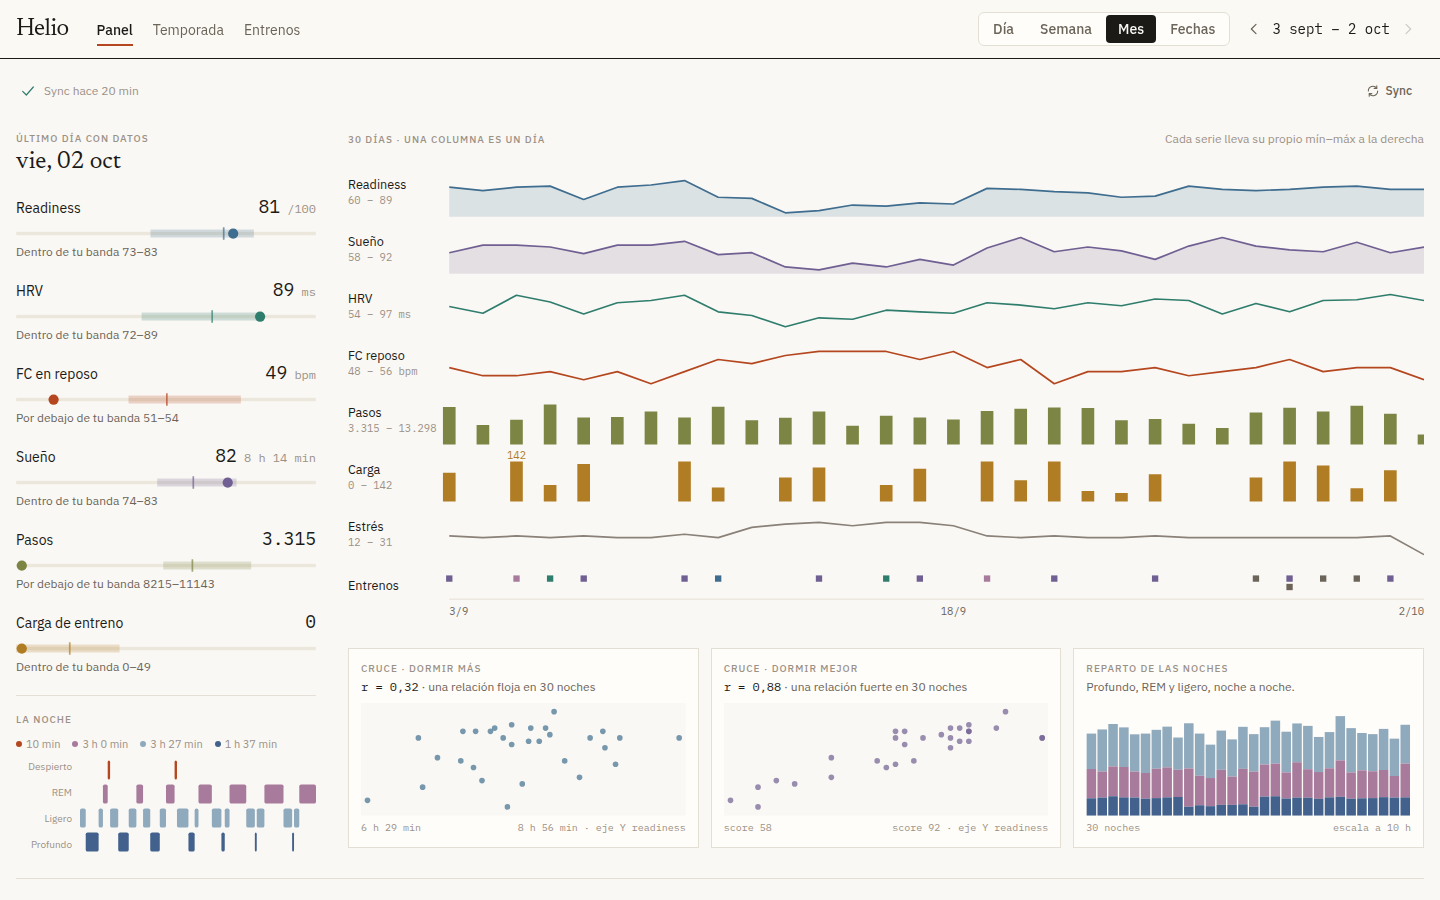
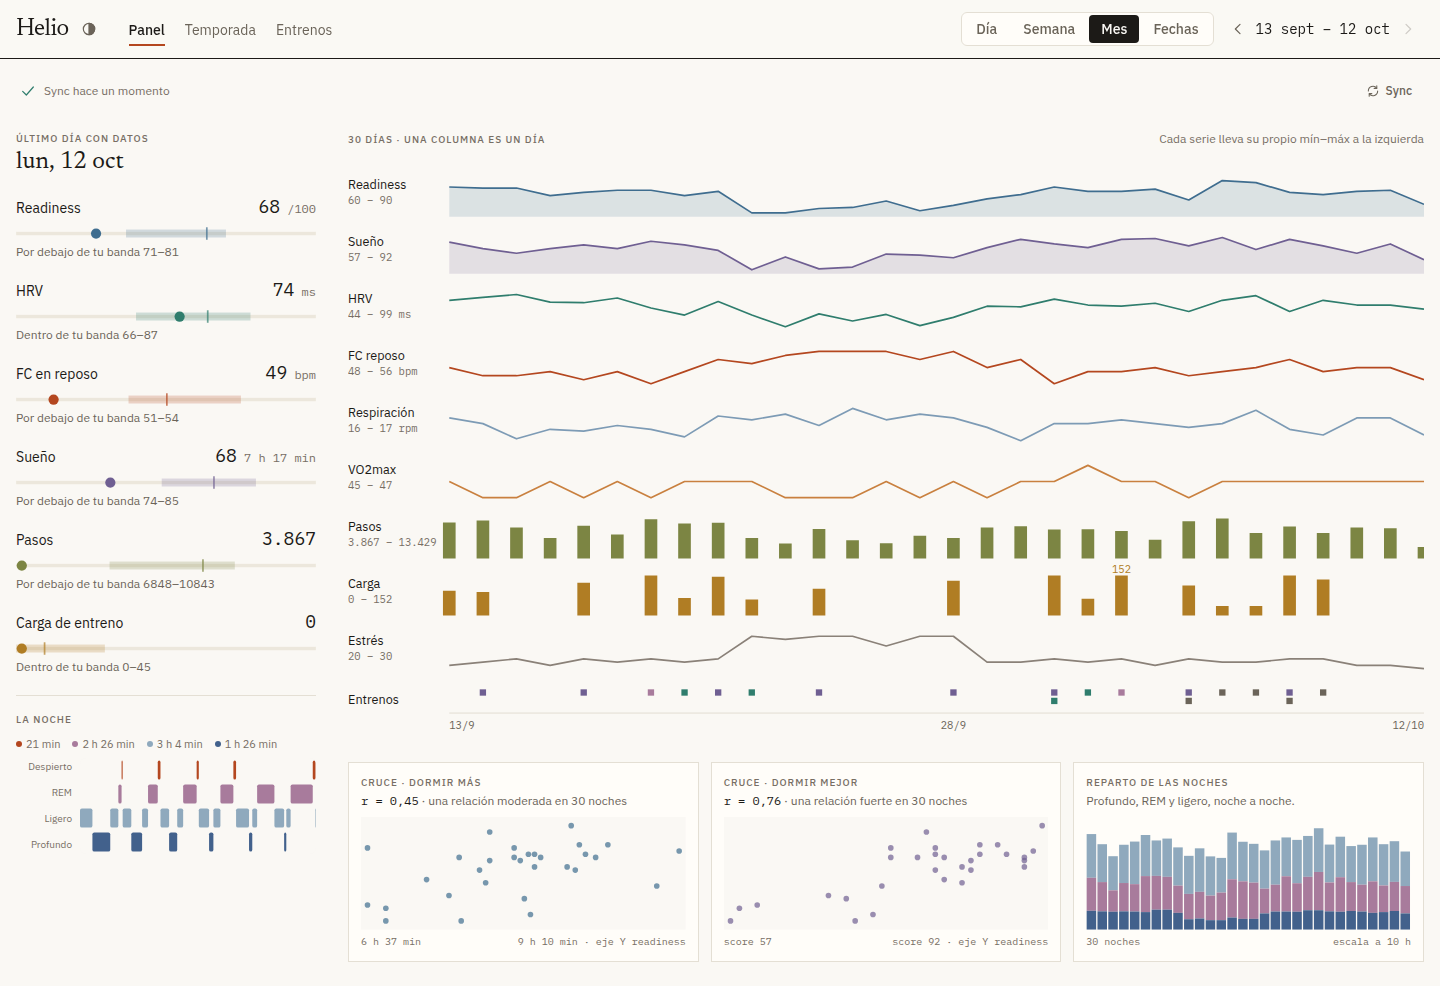
chore(release): v0.2.0

diff --git a/CHANGELOG.md b/CHANGELOG.md
@@ -1,0 +1,72 @@
+# Changelog
+
+Notable changes per release. The format follows
+[Keep a Changelog](https://keepachangelog.com/en/1.1.0/) and versions follow
+[Semantic Versioning](https://semver.org/).
+
+## [0.2.0] - 2026-10-12
+
+### Added
+
+- **Dark mode.** Follows the system by default; the button next to the title
+  cycles Auto → Light → Dark, remembered per browser and applied before the first
+  paint. Every colour is a `light-dark()` pair, and the dark palette was checked
+  for contrast and for colour-blind separation of series that share a chart.
+- **Naps** in the Panel: one line per nap under the night's hypnogram, and each
+  nap with its own hypnogram in the sleep detail. A day with only a nap no longer
+  shows up empty. Naps stay out of the sleep score and its trend.
+- **Respiratory rate and VO2max** lanes on the Panel's shared time axis.
+- The demo generates naps and VO2max, so all of the above is visible without an
+  account.
+
+### Changed
+
+- A Panel lane with no data at all in the selected range is not drawn (VO2max
+  comes back empty on many accounts).
+- Muted text in the light theme is darker: 2.9:1 → 4.7:1 contrast on the page
+  background (WCAG AA); 4.3:1 on raised panels.
+
+### Fixed
+
+- After a sync or any edit (reviewing, editing a workout, labels, annotations),
+  everything on screen reloads, not only the component that made the change.
+- A workout restored from "ignored" shows up again in the review queue badge.
+- The API docs (`/docs`, `/openapi.json`) show the project version instead of
+  FastAPI's default `0.1.0`.
+
+## [0.1.1] - 2026-10-11
+
+### Added
+
+- `GET /api/overview` returns `tz`, the timezone days are grouped by.
+
+### Fixed
+
+- **Sync:** a day fetched while it was still in progress (or before the strap
+  uploaded anything) is fetched again instead of being treated as final. Days
+  older than the sync window that were never fetched, or failed, are recovered
+  on the next default run.
+- **Sync:** `python -m ingest.run` exits with code 1 when any source failed, so
+  cron or a systemd timer can notice.
+- **Review queue:** sessions go to review by the payload's own
+  `auto_recognition` flag instead of a hard-coded sport code, and mapping a code
+  in `[sport_types]` later moves its workouts out of the queue.
+- **Auth:** when the token expires, concurrent 401s trigger a single re-login
+  instead of false "invalid credentials" errors, and a failed re-login is not
+  retried by the other workers.
+- **Web:** the app uses the backend's timezone instead of a fixed
+  `Europe/Madrid`; day arithmetic is correct west of UTC; a manually added
+  workout is read in the app's timezone.
+- **Web:** the workout editor no longer saves the fields of the previously
+  opened workout.
+- **Docs:** the login commands no longer clash with the read-only `UID` shell
+  variable, and the clone URL is the real one.
+
+## [0.1.0] - 2026-10-02
+
+First public release: ingestion from the Zepp cloud API into SQLite, HTTP API,
+web app (installable PWA) and an offline demo.
+
+[0.2.0]: https://github.com/J-solan/zepp-dashboard/compare/v0.1.1...v0.2.0
+[0.1.1]: https://github.com/J-solan/zepp-dashboard/compare/v0.1.0...v0.1.1
+[0.1.0]: https://github.com/J-solan/zepp-dashboard/releases/tag/v0.1.0

diff --git a/README.es.md b/README.es.md
@@ -101,7 +101,7 @@ más de tres horas o son de otro día, para que siempre terminen cerca de ahora
 (un servidor ya en marcha no se regenera). `--reset` deshace lo que hayas
 tocado. El sync responde `"modo demo: sincronización desactivada"`.
 
-![Panel: el día contra su banda de 30 días, siete series en un mismo eje](docs/img/panel.png)
+![Panel: el día contra su banda de 30 días, las series diarias en un mismo eje](docs/img/panel.png)
 ![Entrenos: una sesión de fuerza con sus series de Hevy sobre la FC del strap](docs/img/entrenos.png)
 ![Músculos: volumen semanal de fuerza sobre la figura anatómica](docs/img/musculos.png)
 
@@ -114,8 +114,8 @@ tocado. El sync responde `"modo demo: sincronización desactivada"`.
   el payload esconde en un bloque aparte que casi nadie lee
 - **Estrés** — la serie dispersa que pinta de verdad la app, no un modelo interno
 - **BioCharge** desglosado en `mental` y `physical`, que la app oficial no separa
-- **Readiness**, HRV, FC en reposo, frecuencia respiratoria, VO2max, carga de
-  entreno, pasos
+- **Readiness**, HRV, FC en reposo, frecuencia respiratoria, VO2max (si tu
+  dispositivo lo da), carga de entreno, pasos
 - **Entrenos** con overlay de FC, zonas de frecuencia, carga y training effect,
   más una cola de revisión para las actividades auto-detectadas
 - **Fuerza**, cruzada con [Hevy](https://www.hevyapp.com/): ejercicio, series,
@@ -125,6 +125,7 @@ tocado. El sync responde `"modo demo: sincronización desactivada"`.
 - **Volumen semanal por músculo** sobre una figura anatómica
 - **Instalable en el móvil** (PWA) y usable **sin conexión**: lo último que
   viste sigue ahí aunque no haya red
+- **Tema claro y oscuro**, según el sistema o forzado desde la cabecera
 
 ## Requisitos
 

diff --git a/README.md b/README.md
@@ -99,7 +99,7 @@ hours old or from another day, so it always ends close to now (a server that is
 already running is not rebuilt). `--reset` throws your edits away. Sync answers
 `"modo demo: sincronización desactivada"`.
 
-![Panel: today against its 30-day band, seven series on one time axis](docs/img/panel.png)
+![Panel: today against its 30-day band, the daily series on one time axis](docs/img/panel.png)
 ![Workouts: a strength session with its Hevy sets over the strap's heart rate](docs/img/entrenos.png)
 ![Muscles: weekly strength volume on the body map](docs/img/musculos.png)
 
@@ -113,7 +113,8 @@ already running is not rebuilt). `--reset` throws your edits away. Sync answers
 - **Stress** — the actual sparse series the app draws, not an internal model
 - **BioCharge** split into `mental` and `physical`, which the official app does
   not separate
-- **Readiness**, HRV, resting HR, respiratory rate, VO2max, training load, steps
+- **Readiness**, HRV, resting HR, respiratory rate, VO2max (if your device
+  reports it), training load, steps
 - **Workouts** with HR overlay, heart-rate zones, load and training effect, plus
   a review queue for auto-detected activities
 - **Strength**, cross-referenced with [Hevy](https://www.hevyapp.com/): exercise,
@@ -124,6 +125,7 @@ already running is not rebuilt). `--reset` throws your edits away. Sync answers
 - **Weekly volume per muscle** on an anatomical body map
 - **Installable on your phone** (PWA) and usable **offline**: the last data you
   saw is there without a connection
+- **Light and dark theme**, following your system or forced from the header
 
 ## Requirements
 
